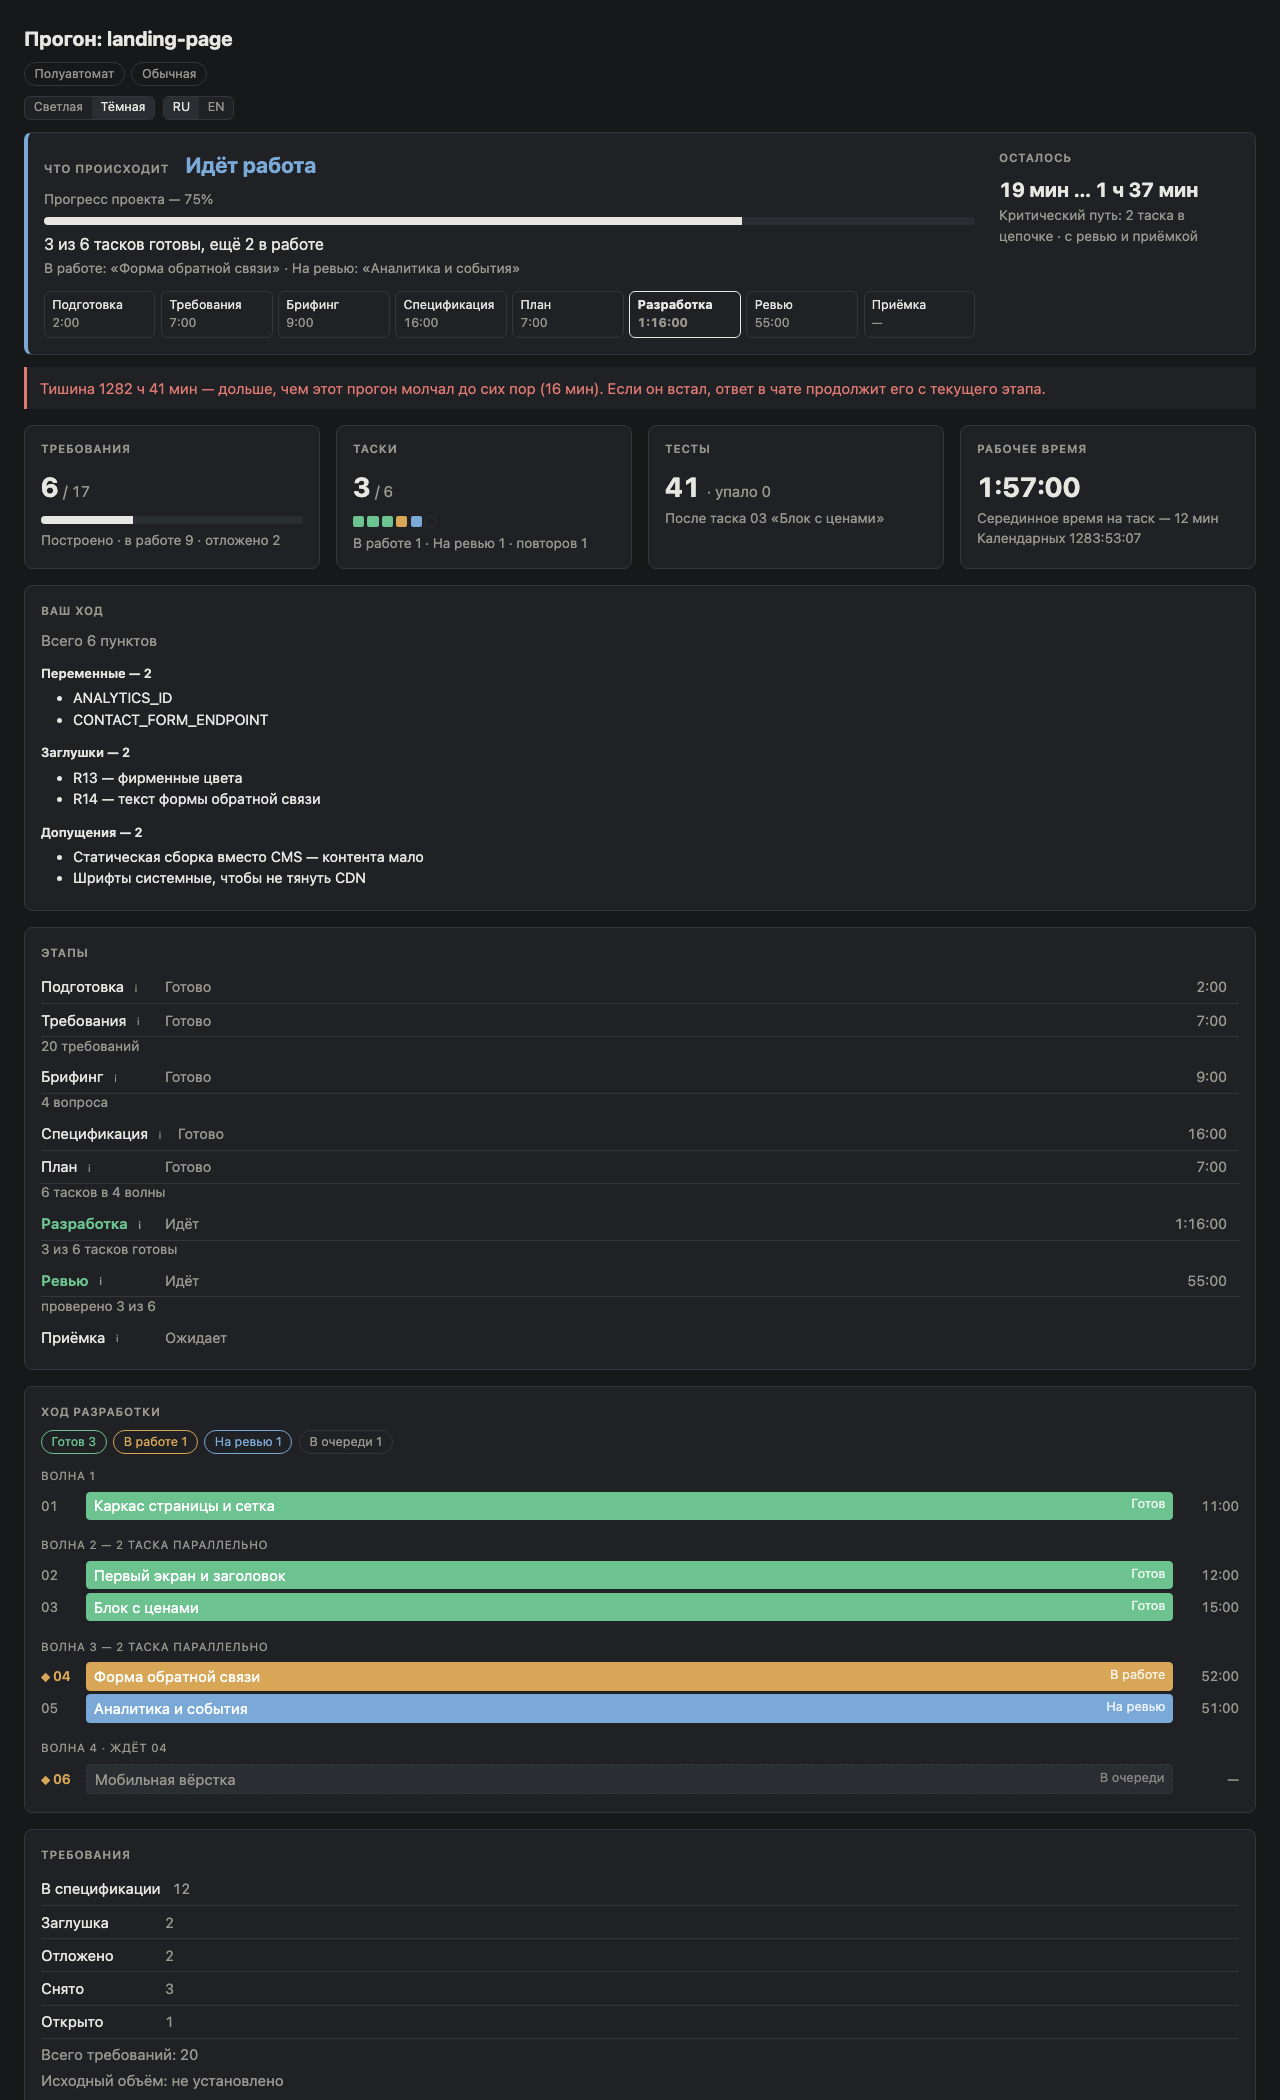
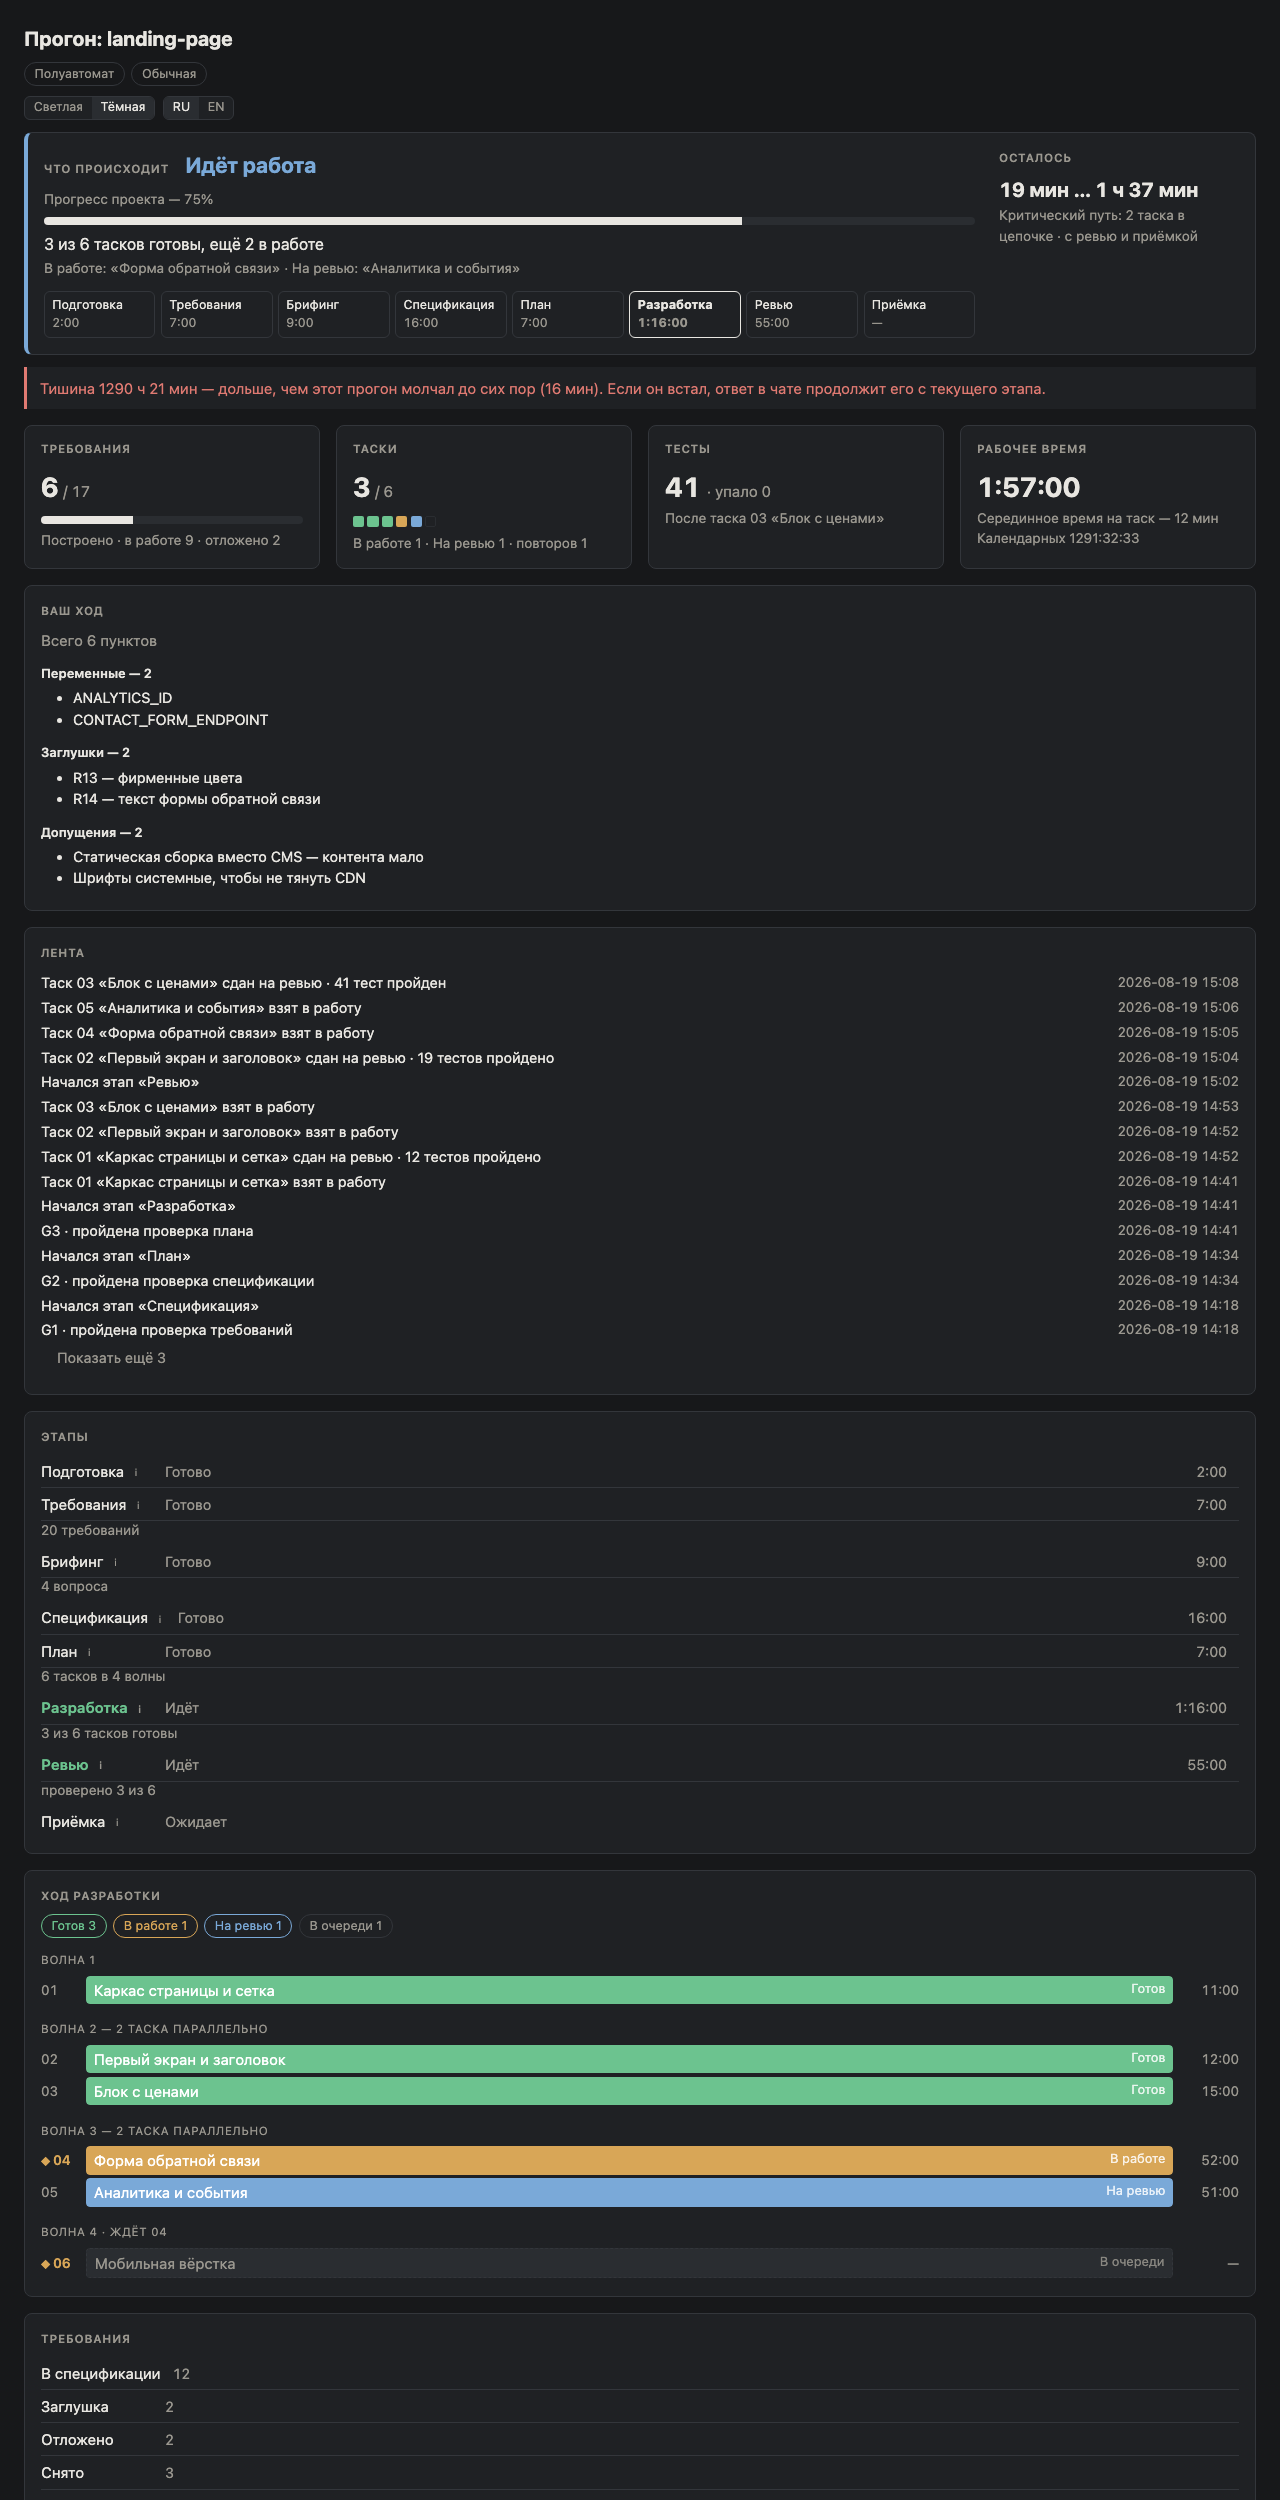
docs: describe the feed and close the roadmap item
docs/dashboard.md describes «Лента» under the run in flight and in its own
section; README names it among the dashboard's regions. Both captures are
re-taken from the fixtures at a 2500 px window, since the feed pushed the
page past 2100, and the documented command says so. CHANGELOG gains the
Unreleased bullet.

diff --git a/docs/dashboard.md b/docs/dashboard.md
@@ -95,6 +95,19 @@ those numbers is computed from the run state at render time; none is stored.
 The brief's coverage is a line under G2 in Гейты, and the total of what waits on
 you heads «Ваш ход».
 
+Under «Ваш ход» is **«Лента»**: what just happened, newest first, in words, each
+line with how long ago it was. A stage started, a таск went out, a таск was
+handed in to review with its test count, a repair attempt came back with its
+outcome, a check passed or did not. Every line is read from a stamp the run
+state already carries, so the feed cannot tell a different story from the
+blocks below it — and what leaves no stamp is not in it. Review accepting a
+таск or sending it back changes a status and dates nothing, so neither appears;
+the region's `i` names those kinds, so their absence reads as a rule rather
+than a gap. Fifteen lines show and the rest fold behind «Показать ещё N». The
+ages move every second with the clocks and are calendar time, not working
+time; past a day the line shows the moment itself. See
+[Feed](#feed).
+
 **Осталось is a range and refuses to be sharper.** It is the median of finished
 таски measured along the remaining critical path, plus the review and acceptance
 still ahead, and below two finished таски it says *рано считать* rather than
@@ -210,6 +223,31 @@ A group longer than five lines folds the rest behind a press. The region opens
 with one total line — «Всего 6 пунктов» — counted from the same lists, so the
 line and the groups cannot disagree. It took the place of the old Долг card,
 and counts promised work and one-way changes too.
+
+## Feed
+
+«Лента» lists what happened, newest first, each line read from a stamp the run
+state carries and from nothing else. No log is written for it, so the run state
+did not change shape to make room for it.
+
+| Line | Read from |
+|---|---|
+| «Начался этап «Разработка»» | a stage's `startedAt` |
+| «Таск 03 «Блок с ценами» взят в работу» | a таск's `startedAt` |
+| «Таск 03 «Блок с ценами» сдан на ревью · 41 тест пройден» | a таск's `finishedAt` and `tests` |
+| «Таск 03 «Блок с ценами»: попытка исправления — Всё ещё не проходит» | a repair attempt's `at` and outcome, from contract 4 |
+| «G3 · пройдена проверка плана» | the check's status, dated by the end of the stage it follows |
+
+From contract 4 the finished-work check is read from each acceptance round
+instead, at the moment the round was performed, so a failed round and the
+passed one after it are two lines. If inputs moved after the latest passed
+round, its line ends «· устарела». In the plain register a check's line names
+it in words only, without G1–G4.
+
+What the stamps cannot say, the feed does not say either. A таск that went out
+again shows only its latest start and hand-in. Review's verdicts, a restart and
+a relay to a fresh subagent leave no stamp and never appear. The feed of a
+finished run measures ages from now, so it honestly says the run was yesterday.
 
 ## A finished run
 
@@ -327,9 +365,12 @@ mkdir -p /tmp/shot && cp skills/maestro/assets/dashboard.html /tmp/shot/
 cp docs/assets/state-finished.fixture.js /tmp/shot/state.js
 "/Applications/Google Chrome.app/Contents/MacOS/Google Chrome" \
   --headless --disable-gpu --hide-scrollbars --allow-file-access-from-files \
-  --virtual-time-budget=4000 --window-size=1280,2100 \
+  --virtual-time-budget=4000 --window-size=1280,2500 \
   --screenshot=docs/assets/dashboard-finished.png file:///tmp/shot/dashboard.html
 ```
+
+The window is 2500 pixels tall, up from 2100 when «Лента» was added, so the
+capture still reaches the start of the требования list.
 
 The clocks in a capture of the in-flight state are measured against the moment
 of the capture, so re-running the command produces a different image. That is

diff --git a/CHANGELOG.md b/CHANGELOG.md
@@ -70,6 +70,14 @@ number that claimed more than that would be claiming it falsely.
   a stage starts, its own clock replaces its share. The estimate no longer goes
   blank while review and acceptance run, and `measure` prints each прогон's
   review and acceptance share of development. No contract change.
+- **The dashboard gains «Лента»: what just happened**, newest first, each line
+  with its age — a stage started, a таск started or handed in to review with
+  its test count, a repair attempt with its outcome, a check passed or not.
+  Every event is read from a stamp the state already carries; from contract 4
+  the finished-work check is one line per acceptance round, and the latest
+  passed round that is no longer current says «устарела». Review's verdicts are
+  not shown, because they leave no stamp, and the region's `i` says so.
+  Fifteen lines show and the rest fold. No contract change.
 - **A wait for the user stops the clocks.** From contract 9 the dashboard cuts
   every closed wait and the open one out of working time, the stage clocks, the
   таск durations, the median and the estimate before the 45-minute ceiling

diff --git a/README.md b/README.md
@@ -646,6 +646,9 @@ What else is on it:
 - **«Ваш ход» — what only you can settle**, in one place: empty variables by
   name, placeholders, open promised work, one-way changes grouped by kind, and
   assumptions. See [Your move](docs/dashboard.md#your-move).
+- **«Лента» — what just happened**, newest first, each line with its age, every
+  event read from a stamp the run state already carries; fifteen show and the
+  rest fold. See [Feed](docs/dashboard.md#feed).
 - **Every таск row opens** to the требования it serves, its blockers, files,
   owned area, commits, restarts, trips to repair, tests and defects; tasks on
   the critical path are marked.
